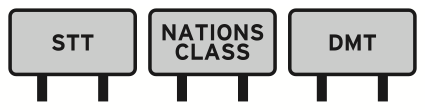
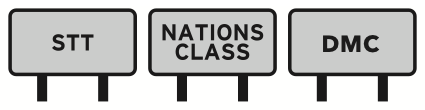
DMT to DMC on the roadmap graphics; rename Driver's Ed to Roadmap Worksheet

Changed region(s): [[0.7341, 0.3, 0.9176, 0.4909]]

diff --git a/guide.js b/guide.js
@@ -225,7 +225,7 @@ export const TIMELINE_HTML = `
 </ol>
 `;
 
-// Driver's Ed: page two of the Discover roadmap, rebuilt for phones. Sign
+// Roadmap Worksheet: page two of the Discover roadmap, rebuilt for phones. Sign
 // pictures are cut from the team's roadmap graphic; the words are typed out.
 const sign = (img, alt, w = 72) => `<img class="de-sign" src="img/${img}" alt="${alt}" style="width:${w}px">`;
 const blanks = (first) => `<div class="de-blanks"><span>${first}</span><span></span><span></span><span></span></div>`;
@@ -270,7 +270,7 @@ export const DRIVERS_ED_HTML = `
 
 <div class="stack-lg">
   <div class="eyebrow">Along the way</div>
-  <div class="stack">${sign('de-signs.png', 'STT, Nations Class and DMT road signs', 200)}
+  <div class="stack">${sign('de-signs.png', 'STT, Nations Class and DMC road signs', 200)}
     <b>Bread and butter</b><p>Recruit to and from here. Use them as often as possible.</p></div>
   <div class="de-row">${sign('de-gate.png', 'Gate arm')}
     <div class="stack"><b>Gate</b><p>Don't skip this step. Where can I off-ramp to? Loving communication.</p></div></div>

diff --git a/app.js b/app.js
@@ -292,13 +292,13 @@ function viewGuide() {
     <div class="stack-lg small">
         <h2>Discover roadmap</h2>
         <a class="roadmap" href="roadmap.png" target="_blank" rel="noopener">
-          <img src="roadmap.png" alt="Discover roadmap: a road from Start through ICT, Stop and Pray, Nations Class, STT, DMT, Yield, Work Area Ahead and back to ICT, with Head, Heart, Hands (4H) as the destination. Applications for ICT are due by Christmas.">
+          <img src="roadmap.png" alt="Discover roadmap: a road from Start through ICT, Stop and Pray, Nations Class, STT, DMC, Yield, Work Area Ahead and back to ICT, with Head, Heart, Hands (4H) as the destination. Applications for ICT are due by Christmas.">
         </a>
         <p class="tiny muted center">Tap the image to open it full size.</p>
     </div>
 
     <details class="more">
-      <summary>Driver's Ed</summary>
+      <summary>Roadmap Worksheet</summary>
       <div class="stack-lg small">${DRIVERS_ED_HTML}</div>
     </details>
 
